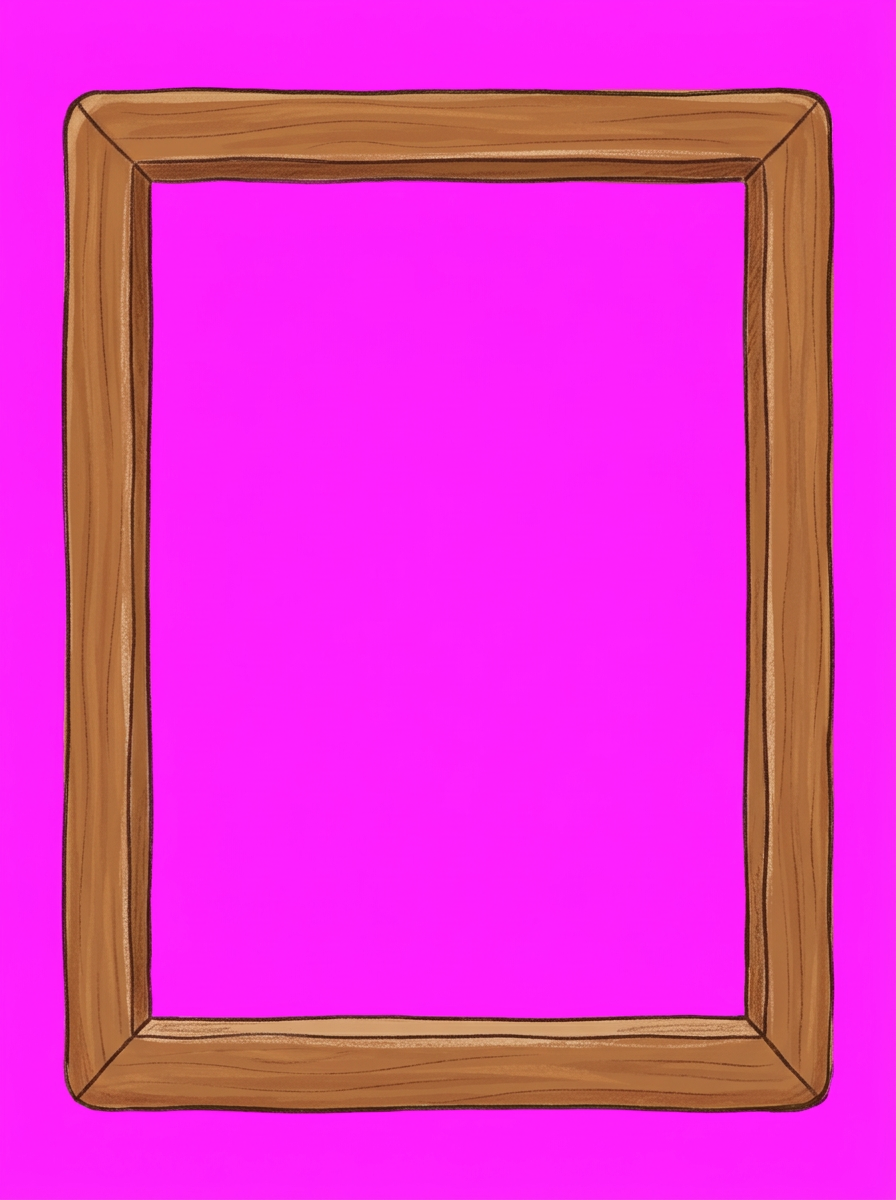
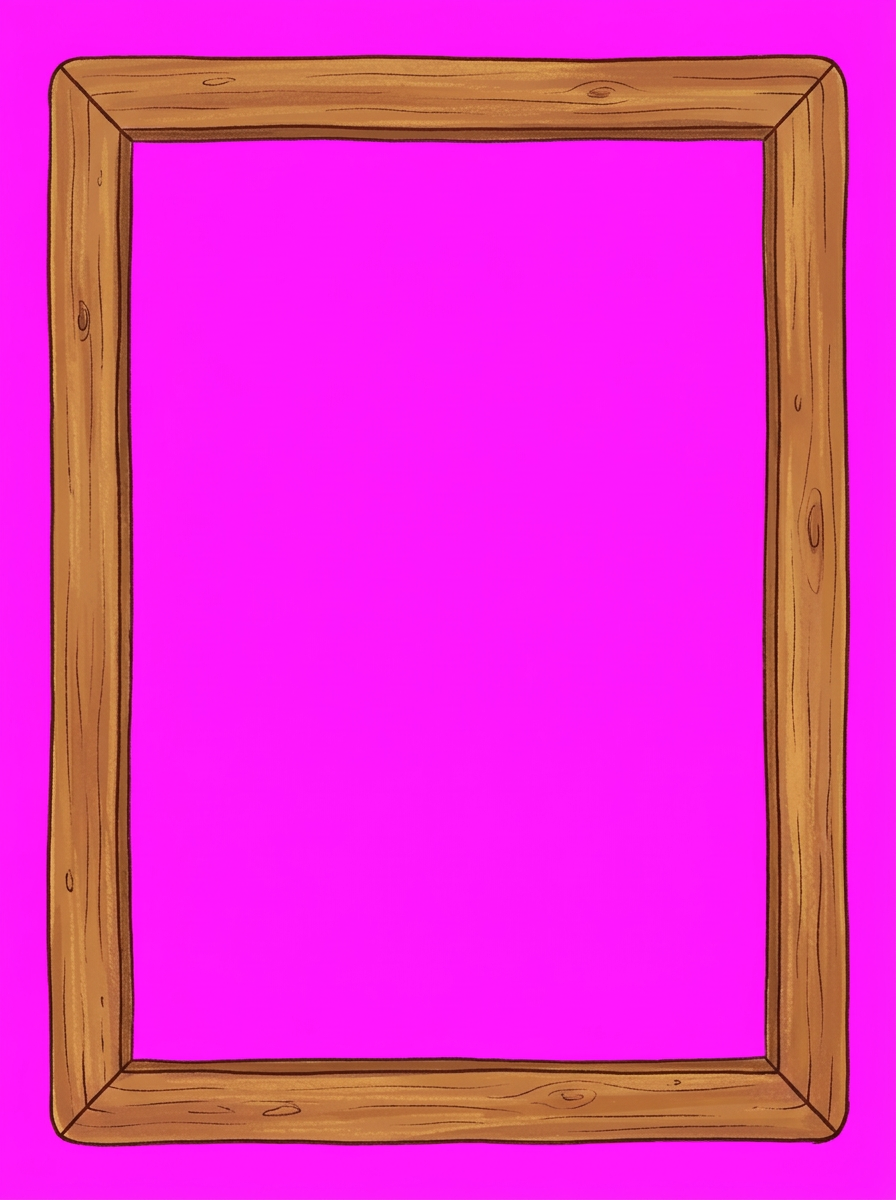
Hand-drawn wooden frame for the cork board; save the case in progress and resume it; dev reset button

Changed region(s): [[0.0312, 0.0308, 0.9688, 0.9558]]

diff --git a/index.html b/index.html
@@ -434,7 +434,7 @@ button.chip:active{transform:translateY(1px);filter:brightness(.94)}
 .board{position:relative;flex:1 0 auto;min-height:500px;box-sizing:border-box;display:flex;flex-direction:column;justify-content:space-evenly;gap:10px;padding:24px 8px 20px;
   /* Higgsfield art (assets/ui/README.md): a cork tile repeated as far as the board grows, inside a wooden frame cut
      into nine pieces — the corners stay put, the sides stretch with the board's length */
-  border:19px solid transparent;border-width:19px 18px;border-image:url(assets/ui/corkboard-frame.webp) 96 90 98 90 / 19px 18px stretch;
+  border:18px solid transparent;border-image:url(assets/ui/corkboard-frame.webp) 89 / 18px stretch;
   background:#D69C62 url(assets/ui/corkboard-cork.webp) 0 0/320px 320px repeat padding-box;
   box-shadow:inset 0 3px 14px rgba(60,35,15,.4),inset 0 0 0 1px rgba(74,54,40,.35);filter:drop-shadow(2px 4px 0 rgba(74,54,40,.18))}
 .polaroid{--tilt:0deg;position:relative;z-index:1;display:block;box-sizing:border-box;width:52%;padding:8px 8px 10px;text-align:left;background:#FFFDF7;
@@ -741,6 +741,7 @@ button.polaroid:active{transform:rotate(var(--tilt)) translateY(2px) scale(.98);
   <button class="devbtn" type="button" id="devDone">전체 대화 완료</button>
   <button class="devbtn" type="button" id="devEvidence">증거 모두 수집</button>
   <button class="devbtn" type="button" id="devTut">튜토리얼 초기화</button>
+  <button class="devbtn" type="button" id="devReset">리셋</button>
 </div>
 
 <script>
@@ -1829,7 +1830,7 @@ function openSheet(name){
 }
 document.querySelectorAll('[data-close]').forEach(b => b.onclick = () => openSheet(null));
 // opened by hand, the notebook rises as high as it can; while recording it stays low so the NPC is visible
-$('#backTab').onclick = () => { setNotes(false); openCaseList(); };
+$('#backTab').onclick = () => { setNotes(false); saveGame(); openCaseList(); };
 $('#noteTab').onclick = () => {
   const open = !$('#app').classList.contains('notes-open');
   openSheet(null);
@@ -2763,11 +2764,50 @@ function startCase(){
   stopVoice();
   $('#caseList').hidden = true;
   markStudyDay();
+  if(resumePending){ resumePending = false; resumeCase(); return; }
   if(caseStarted) return;
   caseStarted = true;
   if(tutSeen()) talkTo('badger'); else openTutorial(true);
 }
 $('#caseCards').addEventListener('click', e => { if(e.target.closest('[data-case]')) startCase(); });
+
+/* ---------- save ----------
+   The case in progress is kept on this device (SAVE_KEY): the whole state S (Sets stored as { $set:[…] }), and how far
+   the ending got. Saved when the page is hidden or closed, on the way out (<), and every few seconds while a case is
+   open. On the next visit the case resumes where it was: in the conversation or the place the player had open. Not kept:
+   an ending scene in progress (the accusation is made again), a note check's open feedback, a line that was playing. */
+const SAVE_KEY = 'pioo.save';
+let resumePending = false, saveOff = false;
+function saveGame(){
+  if(!caseStarted || saveOff) return;
+  try {
+    localStorage.setItem(SAVE_KEY, JSON.stringify({ v:1, S:{ ...S, sel:null }, endingRound },
+      (key, value) => value instanceof Set ? { $set:[...value] } : value));
+  } catch(e){}
+}
+function loadGame(){
+  let data;
+  try { data = JSON.parse(localStorage.getItem(SAVE_KEY), (key, value) => value && Array.isArray(value.$set) ? new Set(value.$set) : value); }
+  catch(e){ return; }
+  if(data?.v !== 1 || !data.S?.per) return;
+  const saved = data.S.per;
+  Object.assign(S, data.S, { sel:null, mood:{}, visit:{} });
+  // anyone added to the case since the save starts fresh; a check's open feedback is not kept
+  S.per = Object.fromEntries(PEOPLE_ORDER.map(id => [id, { ...newSpeakerState(), ...saved[id], feedback:null }]));
+  PLACES.forEach(place => { if(!(S.found[place.id] instanceof Set)) S.found[place.id] = new Set(); });
+  S.met = S.met.filter(id => PEOPLE[id]);
+  endingRound = data.endingRound || 0;
+  caseStarted = resumePending = true;
+}
+// The saved case on screen again: the place the player had open, else the conversation.
+function resumeCase(){
+  renderPlaces();
+  if(S.investigate && S.known.has(S.place)){ S.investigate = false; enterPlace(S.place); }
+  else { S.investigate = false; talkTo(S.cur); }
+}
+document.addEventListener('visibilitychange', () => { if(document.hidden) saveGame(); });
+addEventListener('pagehide', saveGame);
+setInterval(() => { if(caseStarted && $('#caseList').hidden) saveGame(); }, 5000);
 
 /* ---------- grammar notes ----------
    A checked question gets chips for the grammar in its answer (GRAMMAR_LINES). A chip opens the card:
@@ -3012,7 +3052,16 @@ $('#devEvidence').onclick = () => {
 // 튜토리얼 초기화: forget that the tutorial was seen and start over.
 $('#devTut').onclick = () => { try { localStorage.removeItem(TUT_KEY); } catch(e){} location.reload(); };
 
+// 리셋: everything this game keeps on the device (case in progress, solved cases, records, study days, tutorial) is
+// forgotten and the app starts over.
+$('#devReset').onclick = () => {
+  saveOff = true;
+  try { Object.keys(localStorage).filter(key => key.startsWith('pioo.')).forEach(key => localStorage.removeItem(key)); } catch(e){}
+  location.reload();
+};
+
 /* ---------- boot ---------- */
+loadGame();
 renderStage(false); renderDock(); renderPlaces(); renderSceneHead();
 // the app opens on the case list (tapping a case is also the tap that lets audio play)
 openCaseList();

diff --git a/HANDOFF.md b/HANDOFF.md
@@ -25,7 +25,7 @@
 - **공유·최종본**: 완성본은 **claude.ai 아티팩트로 마무리**한다(사용자가 요청할 때만, 9절). Codex가 만든 공개 데모 사이트는 더 갱신하지 않는다(1.1절).
 - **에이전트 협업**: Codex와 Claude Code가 같은 폴더·같은 `main` 브랜치에서 번갈아 작업한다. 한 번에 한 쪽만 작업하고, 끝낸 쪽이 `HANDOFF.md`·`CHANGELOG.md`를 갱신해 커밋한다(`AGENTS.md`). 동시에 일해야 할 때만 `CLAUDE_REQUEST.md`로 요청을 넘긴다.
 - **아직 없는 것**
-  - 진행 상태 자동 저장, 사건 도중의 증거 내밀기·모순 지목(엔딩 대질에만 있다).
+  - 사건 도중의 증거 내밀기·모순 지목(엔딩 대질에만 있다).
   - 다음 작업 후보는 10절에 있다.
 
 ## 1. 실행
@@ -74,7 +74,8 @@ node server.js            # http://localhost:5173/
 
 ### 3.1 홈(사건 밖 화면)·튜토리얼
 
-- 첫 화면은 홈이다(`#caseList`). 아래에 **앱 메뉴 4칸** `사건` · `단어장` · `복습` · `내 기록`이 있고(종이 버튼, 고른 칸은 꿀색), 칸마다 페이지(`#home-cases/words/review/me`)를 바꿔 보여 준다(`homeTab`, `renderHome()`). 사건 안의 메뉴(`지도` · `Note`)와는 따로다. 사건 안 아래 메뉴 맨 왼쪽의 `<` 버튼(`#backTab`, 사용자 요청)으로 사건 수첩에 나간다. 진행은 메모리에 그대로 남아 다시 누르면 하던 곳에서 이어지고 배지는 "수사 중"이 된다(새로고침하면 처음부터, 자동 저장은 아직 없음).
+- 첫 화면은 홈이다(`#caseList`). 아래에 **앱 메뉴 4칸** `사건` · `단어장` · `복습` · `내 기록`이 있고(종이 버튼, 고른 칸은 꿀색), 칸마다 페이지(`#home-cases/words/review/me`)를 바꿔 보여 준다(`homeTab`, `renderHome()`). 사건 안의 메뉴(`지도` · `Note`)와는 따로다. 사건 안 아래 메뉴 맨 왼쪽의 `<` 버튼(`#backTab`, 사용자 요청)으로 사건 수첩에 나간다. 다시 누르면 하던 곳에서 이어지고 배지는 "수사 중"이 된다.
+- **자동 저장**(사용자 요청): 진행 중인 사건을 `localStorage` `pioo.save`에 둔다(`saveGame()`/`loadGame()`). 내용은 상태 `S` 전체(Set은 `{ $set:[…] }`)와 `endingRound`. 저장 시점: 화면이 가려지거나 닫힐 때(`visibilitychange`·`pagehide`), `<`로 나갈 때, 사건 화면이 열려 있는 동안 5초마다. 앱을 다시 열면 배지가 "수사 중"이고, 사건을 누르면 `resumeCase()`가 보던 장소 또는 대화로 데려간다. 저장하지 않는 것: 진행 중이던 엔딩 장면(지목부터 다시), 채점 직후 열린 피드백, 재생 중이던 음성. 여러 탭이면 마지막에 저장한 탭이 이긴다.
 - **사건**: 사건 수첩 = **코르크 단서판**(사용자가 고른 B안, `.board`). 판은 Higgsfield 손그림 코르크 타일(`assets/ui/corkboard-cork.webp`, 끝없이 반복)과 나무 액자(`corkboard-frame.webp`, 9조각 `border-image`: 모서리 고정, 변은 판 길이만큼 늘어남)라 사건이 늘어도 그대로 길어진다(`assets/ui/README.md`). 홈 배경은 점무늬 없는 종이색이다(사용자 요청). 사건마다 폴라로이드 사진(`.polaroid`) 한 장을 왼쪽·오른쪽 번갈아 기울여 붙이고(`TILTS`), 압정끼리 빨간 실로 사건 순서대로 잇는다(`drawBoardString()`, SVG를 판 위에 덧그림). 실은 압정에서 사진 윗변을 따라 옆으로 빠져 빈 쪽으로 내려가서 장면을 가리지 않는다. 잠긴 사건으로 가는 실은 점선·흐리게.
   - 사진 크기: 다음에 할 사건(`.current`, 해결 안 한 열린 사건) 64% · 해결한 사건 52% · 잠긴 사건 42%. 열린 사진에는 장면 그림, 학습 포인트(`CASES[].focus`), 상태 배지(새 사건 / 수사 중 / 해결 ✓), 해결했으면 최고 별점. 잠긴 사진은 "?"와 "Case 0N을/를 해결하면 열려요"(숫자 받침에 맞춘 조사), 앞 사건을 해결했지만 아직 없으면 "준비 중이에요".
   - **확장**: `CASES`에 항목을 더하면 판이 아래로 길어지고 화면이 스크롤된다(케이스 10개로 시험함). 판이 길면 들어올 때 다음에 할 사건이 화면 가운데로 오게 스크롤한다.
@@ -369,6 +370,9 @@ node server.js            # http://localhost:5173/
 | 전체 대화 완료 | 모든 인물·장소를 열고 질문을 정답으로 기록(채점·도장은 하지 않음) 후 지도를 엶 |
 | 증거 모두 수집 | 모든 장소의 단서와 물건을 찾음 처리하고 증거 노트에 사진째 저장(촬영 연출 없음). 엔딩 대질 시험용 |
 | 튜토리얼 초기화 | 튜토리얼 본 기록을 지우고 새로고침 |
+| 리셋 | 이 게임이 기기에 둔 것(`pioo.*`: 진행 저장, 해결 기록, 별점, 학습일, 튜토리얼 본 기록)을 모두 지우고 새로고침 |
+
+- 저장이 생겨서 시험 탭도 진행을 `pioo.save`에 쓴다. 시험 전에 `localStorage`를 백업하고, 끝나면 **게임이 아닌 같은 주소의 빈 페이지**(예: `/__restore`)로 옮긴 뒤 되돌린다(게임 페이지에서 되돌리면 떠날 때 다시 저장해 덮어쓴다).
 
 - **브라우저로 시험할 때는 사용자가 보고 있는 미리보기 탭이 아니라 새 탭(`tabs_create`)에서 한다.** 같은 탭에서 스크립트를 돌리면 사용자가 입력하던 진행을 덮어쓴다(2026-10-16에 실제로 사용자의 오답을 정답으로 덮어써 "확인됨"이 뜬 일이 있었다).
 - 가능하면 실제 클릭·입력을 쓰고, 소리 재생은 사용자 활성화가 없으면 막힐 수 있다. `index.html` 수정 후에는 인라인 스크립트 구문 검사(`new Function`)를 돌린다.
@@ -407,18 +411,16 @@ node server.js            # http://localhost:5173/
 2. **모순 지목**: 범인만 고르는 대신 노트 문장 + 증거를 짝지어 제시한다. 틀리면 동료가 대화로 힌트를 준다. 틀린 노트 문장이면 동료가 "정말 그렇게 말했어요?"라고 되묻는다.
 3. **엔딩 보완**: 엔딩 음악·효과음.
 4. **채점 보완**: 재확인 횟수 제한·도토리 소모 또는 직접 입력 철자 관용을 검토한다. 현재 오답은 점선 밑줄로 표시하고 정답은 알려 주지 않는다.
-5. **자동 저장**: 기록 완료, 채점, 증거 획득, 장소 열림 때마다 저장하고 이어 하기를 지원한다.
-6. **복습 보완**: 틀린 문장만 모아 다시 듣기.
-7. **난이도 3단계**(단어 카드 / 첫 글자 힌트 / 직접 입력).
-8. **남은 목소리**: Mole m3·Rosie q1–q3의 감정 확인. Ray 네 대사는 모두 적용 완료.
-9. **정리**: 현장의 `swipeHint`("옆으로 밀어서 둘러보기")는 조작 설명 금지 규칙과 맞지 않아 정리 대상이다. 미사용 그림(`ui/notebook-*`, `*-sticker.png` 등) 정리 여부를 정한다.
-10. **앱 이름·브랜딩**: 후보 Hearlock(히어록), 귀록홈즈, Echolock 등.
-11. **물건 더 늘리기**: 지금은 장소마다 세 개다(3.5절). 사용자가 원하면 더 추가한다.
+5. **복습 보완**: 틀린 문장만 모아 다시 듣기.
+6. **난이도 3단계**(단어 카드 / 첫 글자 힌트 / 직접 입력).
+7. **남은 목소리**: Mole m3·Rosie q1–q3의 감정 확인. Ray 네 대사는 모두 적용 완료.
+8. **정리**: 현장의 `swipeHint`("옆으로 밀어서 둘러보기")는 조작 설명 금지 규칙과 맞지 않아 정리 대상이다. 미사용 그림(`ui/notebook-*`, `*-sticker.png` 등) 정리 여부를 정한다.
+9. **앱 이름·브랜딩**: 후보 Hearlock(히어록), 귀록홈즈, Echolock 등.
+10. **물건 더 늘리기**: 지금은 장소마다 세 개다(3.5절). 사용자가 원하면 더 추가한다.
 
 ### 10.1 최근 논의 — 미구현·미확정 사항
 
 - **학습 요소(듀오링고·말해보카식)**: 기획안은 `LEARNING_PLAN.md`. 오늘의 훈련(문제 유형·세션 구성), 단어장 간격 반복, XP·일일 목표·등급·배지, 사건 안 학습 장치, 도입 순서와 결정할 것을 정리했다. 사용자 결정 전이라 구현하지 않았다.
-- **자동 저장**: 사건 안 `<`(나가기)는 넣었지만 진행은 새로고침하면 사라진다. 저장은 미정.
 
 - **그림 버튼·아이콘**: 종이 버튼 그림은 적용 중이다. 대화 화면의 도구 버튼(왼쪽 위 `← 장소`, `힌트`, 노트 머리줄 `다시 듣기`·`천천히`·`기록 완료`)은 같은 종이 그림·높이 36px·글자 14px로 통일했다(사용자 요청). 색만 역할별: 크림(이동·듣기), 꿀색(힌트), 초록(완료). 손그림 아이콘(`assets/ui/icons/`)은 사용자가 안 어울린다고 해 되돌렸다. 아이콘을 다시 시도하려면 방향(예: 더 단순한 선 아이콘)을 먼저 정한다. 단어 카드·인물 카드는 아직 CSS 그대로다. 사건 목록은 코르크 단서판으로 바꿨다(3.1절).
 - **스크롤바**: 앱 전체에서 숨긴다(`*{scrollbar-width:none}`, 사용자 요청: 폰 앱처럼). 스크롤은 그대로 된다.

diff --git a/assets/ui/README.md b/assets/ui/README.md
@@ -14,7 +14,7 @@
   - 탭 버튼은 이 PNG로 마스크하고 `--tab-bg` 색 위에 곱하기로 겹쳐 색을 입힌다. 선택된 탭은 꿀색(`--honey`)이며 조금 더 높다. 순서대로 1–6번 모양을 돌려 쓴다.
 
 - `corkboard-cork.webp` (512×512, 화면에서 320px 타일): 사건 수첩 코르크판 바탕. Higgsfield Nano Banana 2.1(1K, thinking high), 카페 배경 그림(job `354bb7cb-…`)을 화풍 참조로 한 손그림 코르크 2장 중 고른 것(job `b4aa7ed9-993b-4f17-8c5e-e42688cb7edf`, 원본 `corkboard-cork-higgsfield-original.png`). 반 칸 밀어 낸 사본과 가장자리만 섞어 이음매 없는 타일로 만들었다. 처음 뽑은 사진 같은 코르크(job `96438498-…`)는 사용자가 "너무 리얼하다"고 해 버렸다.
-- `corkboard-frame.webp` (773×1027, 투명): 코르크판 나무 액자. 같은 모델, 오리 NPC 그림(job `6f92a3f3-…`) 화풍 참조, 마젠타 배경(job `75a1eb0e-5a39-46b4-8a11-ef0865101024`, 원본 `corkboard-frame-higgsfield-original.png`)을 로컬에서 지우고 잘랐다. 나무 두께 좌우 약 88px·위아래 약 95px → CSS `border-image` 조각 `96 90 98 90`, 화면 두께 19px·18px, `stretch`.
+- `corkboard-frame.webp` (804×1093, 투명): 코르크판 나무 액자. 같은 모델, 카페 배경 그림(job `354bb7cb-…`) 화풍 참조로 손그림 나무 액자 2장 중 고른 것(job `60b9f138-bafa-4736-9dd5-53bca97a5ecd`, 원본 `corkboard-frame-higgsfield-original.png`). 마젠타 배경을 로컬에서 지우고 잘랐다. 나무 두께 네 변 약 86px → CSS `border-image` 조각 `89`, 화면 두께 18px, `stretch`. 처음 액자(job `75a1eb0e-…`, 오리 그림 참조)는 일러스트 느낌이 약하다는 피드백으로 바꿨다.
 
 ## 제작
 
